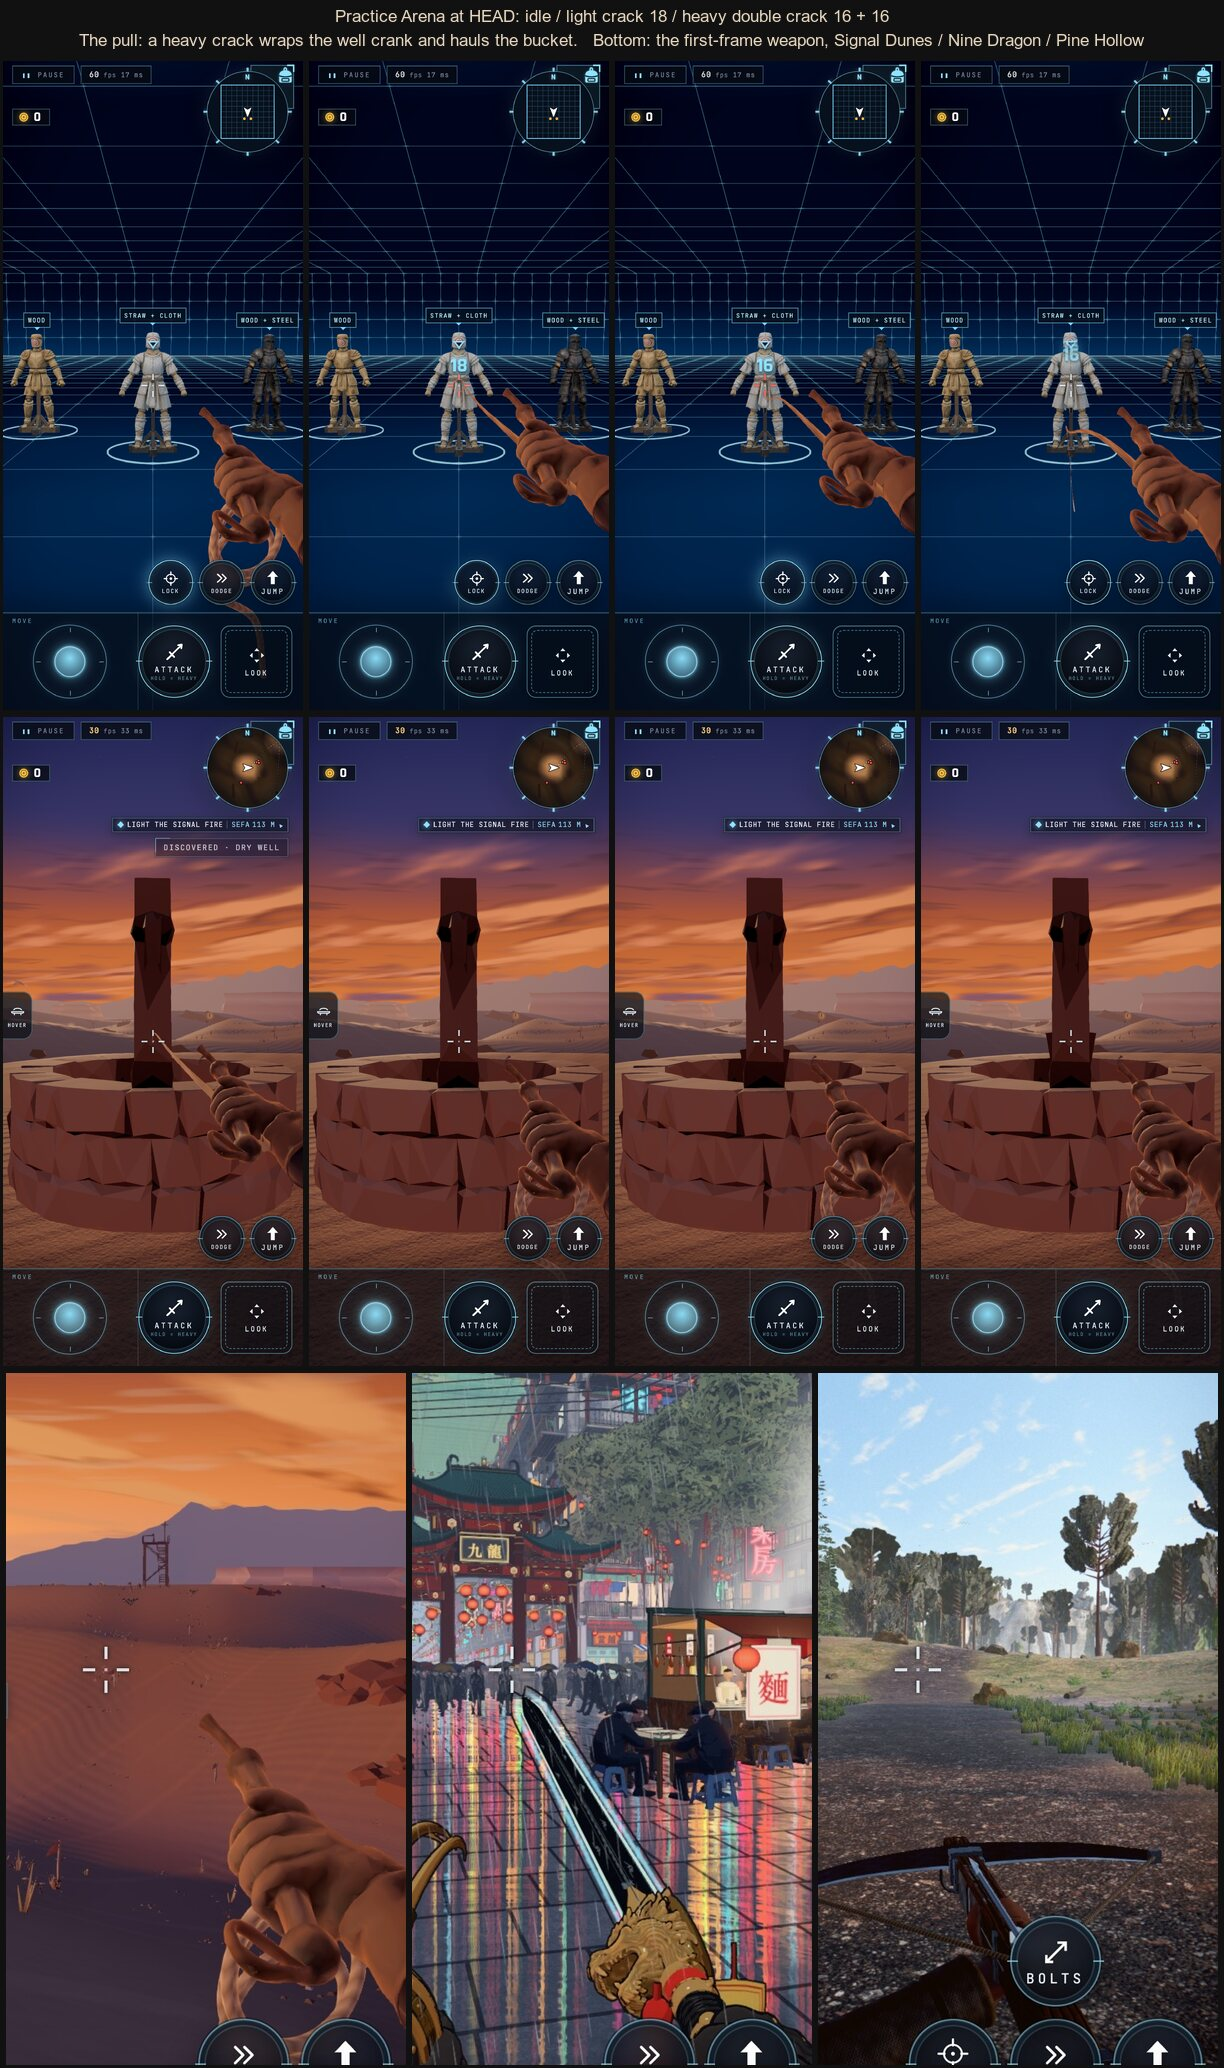
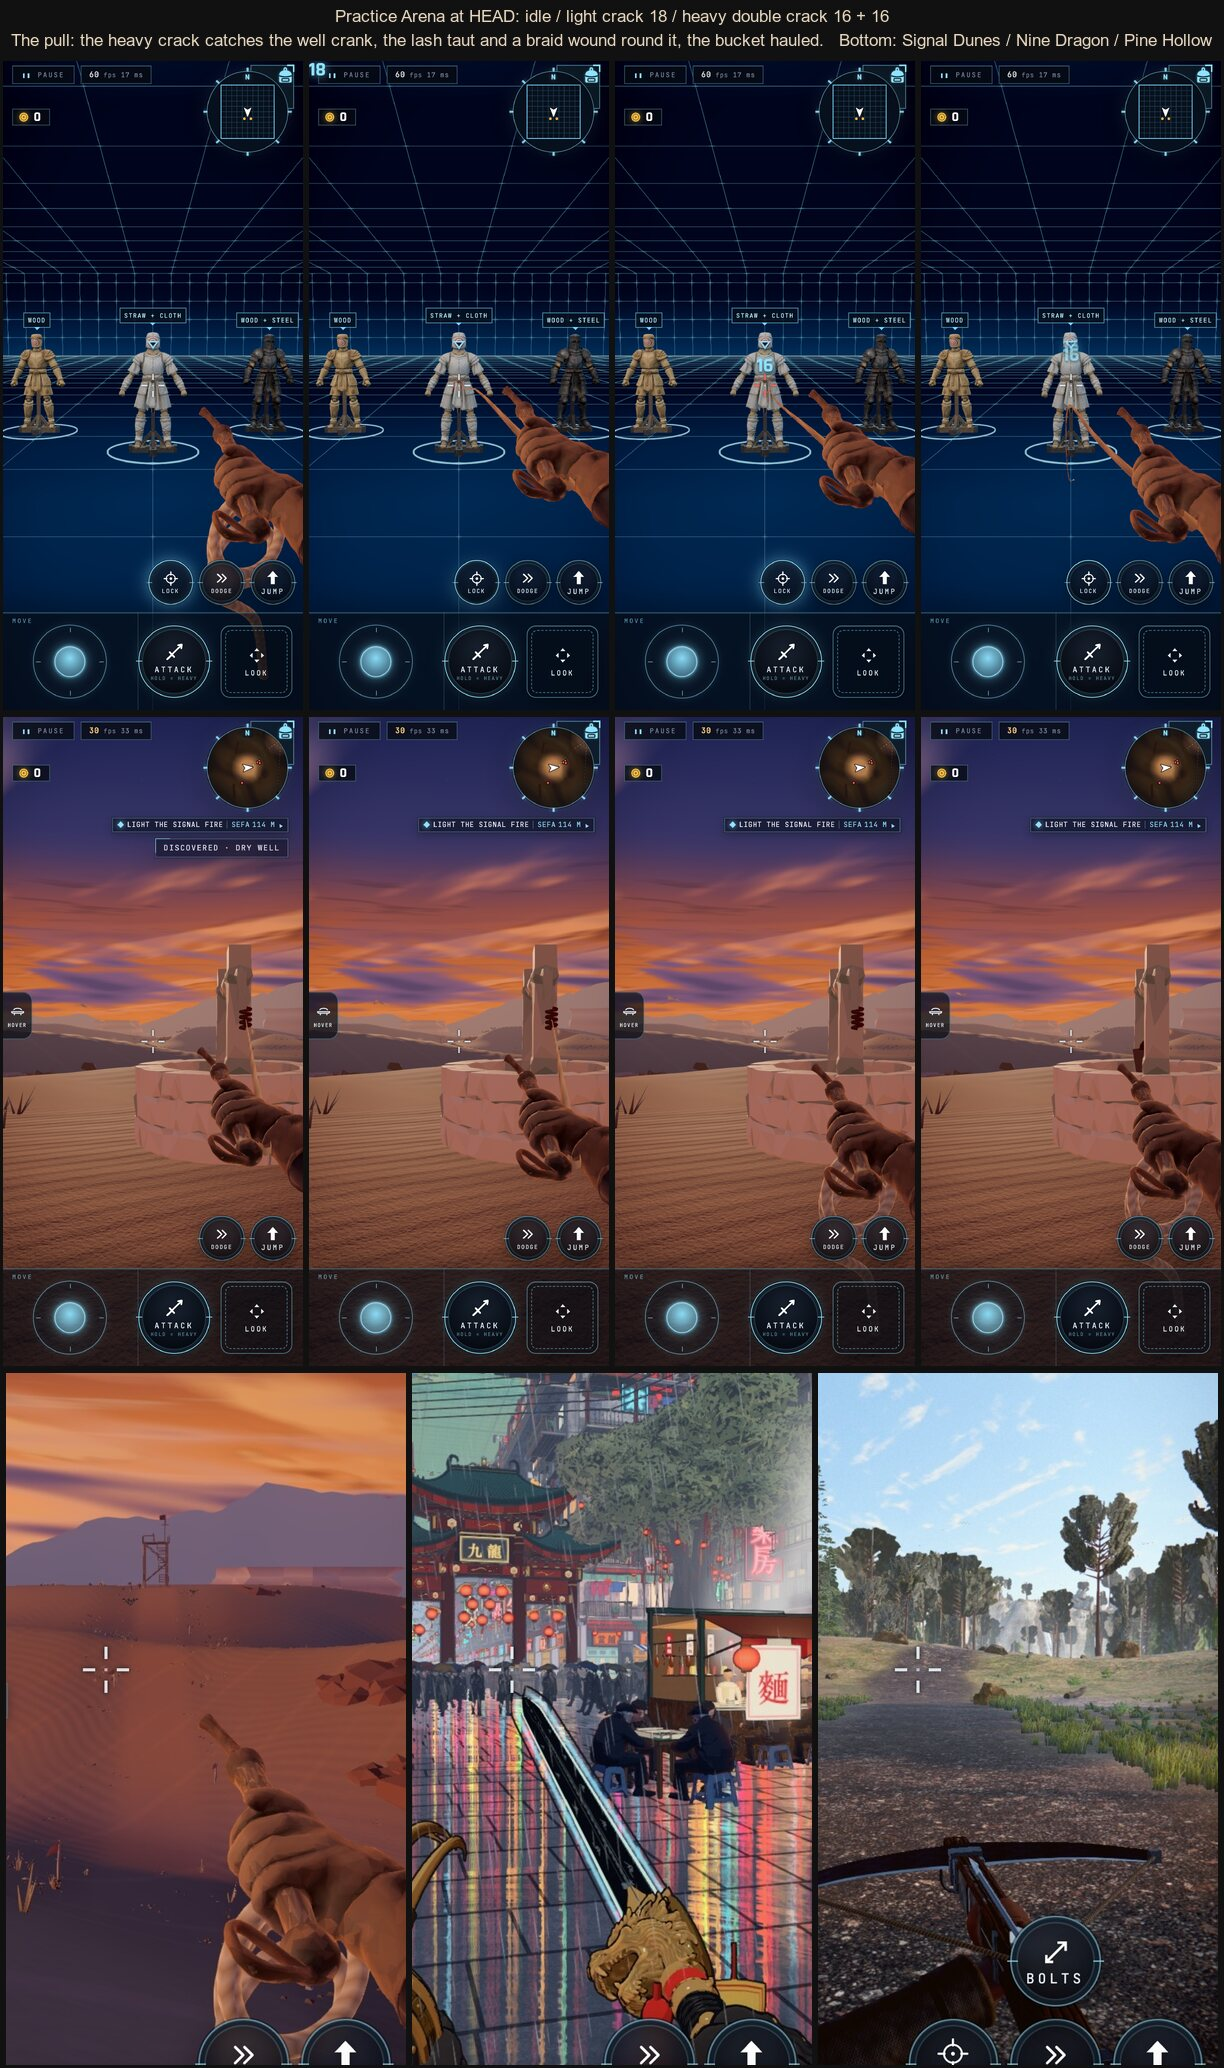
E374 Signal Dunes after the check pass, item 6: R1B-16 the pull is visible: a heavy crack that catches a lever holds the lash taut on it for 0.9 s with a braided coil wound round it in the world (Bullwhip.wrap); whip-arena.jpg re-shot at HEAD with the pull row (the lash to the crank, the wrap, the b
Claude-Session: https://claude.ai/code/session_01BQvkWzoif6UYZD5iMtrAJy

diff --git a/src/shards/sunscar-dunes/weapons/Bullwhip.ts b/src/shards/sunscar-dunes/weapons/Bullwhip.ts
@@ -1,7 +1,7 @@
 import { Weapon, blocks, type Actor, type App, type CombatTarget, type EquipContext, type Targets, type WeaponState } from '#engine';
-import { Vector2, Vector3 } from 'three';
+import { CatmullRomCurve3, Mesh, TubeGeometry, Vector2, Vector3 } from 'three';
 import { WHIP_ROW } from './rows';
-import { buildWhipModel, type WhipParts } from './whipModel';
+import { braidedMaterial, buildWhipModel, type WhipParts } from './whipModel';
 import type { Crackable } from '../world/build';
 
 /** What the lash lands on: the combat actor, and the body's yank and stagger when it has them. */
@@ -10,6 +10,9 @@ export interface WhipTarget { actor: Actor; impulse?: (velocity: Vector3) => voi
 const CHEST = 0.9, BODY = 0.7;
 
 /** The crack's numbers (metres, seconds, hit points); `pull` is the yank's speed (m/s) on a creature of `pullMaxHp` or less. */
+/** The wrap round a caught lever (metres, seconds): coil radius, height, turns, cord, how long it holds. */
+const WRAP = { r: 0.06, h: 0.24, turns: 4, cord: 0.018, hold: 0.9 } as const;
+
 export const CRACK = { reach: 7, heavyReach: 8, width: 0.9, light: 18, heavy: 16, cooldown: 0.45, heavyCooldown: 0.9,
   unroll: 0.12, second: 0.32, show: 0.42, charge: 0.6, stagger: 0.8, pull: 16, pullMaxHp: 40 } as const;
 
@@ -33,6 +36,11 @@ export class Bullwhip extends Weapon {
   private readonly from = new Vector3(); private readonly end = new Vector3();
   /** Levers and braziers the lash reacts to when it hits no creature (C3). */
   private crackables: readonly Crackable[] = [];
+  /**
+   * The pull's wrap (after the check pass: the board showed no lash round the crank): the world point the lash caught,
+   * how long it holds there, and a braided coil wound round it in the world while it holds.
+   */
+  private wrapAt: Vector3 | null = null; private wrapT = 0; private wrapCoil: Mesh | null = null;
   constructor(app: App, targets: Targets | null = null) {
     super(WHIP_ROW); this.app = app; this.targets = targets;
     this.contact = blocks.melee(app.combat); this.blocks.vm = this.vm; this.blocks.melee = this.contact;
@@ -48,7 +56,10 @@ export class Bullwhip extends Weapon {
     super.install(ctx);
     this.app.input.bind('attack', () => { this.tryFire(); }, ctx.scope, () => this.enabled);
     this.app.input.bind('heavy', () => { this.swing(true); }, ctx.scope, () => this.enabled);
-    ctx.scope.onDispose(() => { this.wasHeld = false; this.held = 0; this.crackT = -1; });
+    ctx.scope.onDispose(() => {
+      this.wasHeld = false; this.held = 0; this.crackT = -1;
+      if (this.wrapCoil) { this.wrapCoil.removeFromParent(); this.wrapCoil.geometry.dispose(); this.wrapCoil = null; }
+    });
   }
   override tryFire(): void { this.swing(false); }
   /** Starts a crack; the lash lands `CRACK.unroll` s later (and again at `CRACK.second` for the heavy). */
@@ -70,7 +81,20 @@ export class Bullwhip extends Weapon {
     if (hit !== null && port?.hittable === true) { this.strike(whipTarget(port), hit.point, dir, from, this.crackHeavy, second); this.onFire?.(); return; }
     const lane = this.inLane(from, dir, reach);
     if (lane !== null) { this.strike(whipTarget(lane.port), lane.point, dir, from, this.crackHeavy, second); this.onFire?.(); return; }
-    this.crackWorld(from, dir, reach, second);
+    const caught = this.crackWorld(from, dir, reach, second);
+    if (caught !== null && this.crackHeavy) this.wrap(caught.at);
+  }
+  /** Winds the lash round a caught lever: a short braided helix at the point, shown while the wrap holds. */
+  private wrap(at: Vector3): void {
+    const scene = this.app.equipmentHost?.game.scene; if (!scene) return;
+    if (this.wrapCoil === null) {
+      const pts: Vector3[] = [];
+      for (let i = 0; i <= 40; i++) { const a = (i / 40) * Math.PI * 2 * WRAP.turns; pts.push(new Vector3(Math.cos(a) * WRAP.r, (i / 40 - 0.5) * WRAP.h, Math.sin(a) * WRAP.r)); }
+      this.wrapCoil = new Mesh(new TubeGeometry(new CatmullRomCurve3(pts), 80, WRAP.cord, 5, false), braidedMaterial());
+      this.wrapCoil.frustumCulled = false; scene.add(this.wrapCoil);
+    }
+    this.wrapCoil.position.copy(at); this.wrapCoil.visible = true; // wound round the crank's upright
+    this.wrapAt = at.clone(); this.wrapT = WRAP.hold;
   }
   /** The nearest hittable combat target whose chest sits inside the lash's lane. */
   private inLane(from: Vector3, dir: Vector3, reach: number): { port: CombatTarget; point: Vector3 } | null {
@@ -128,6 +152,7 @@ export class Bullwhip extends Weapon {
   }
   private animate(dt: number): void {
     const { grip, coil, lash, tip } = this.parts;
+    if (this.wrapT > 0) { this.wrapT -= dt; if (this.wrapT <= 0 && this.wrapCoil) this.wrapCoil.visible = false; }
     if (this.crackT < 0) { lash.mesh.visible = false; coil.visible = true; grip.position.set(0, 0, 0); return; }
     this.crackT += dt;
     const t = this.crackT, double = this.crackHeavy;
@@ -144,7 +169,10 @@ export class Bullwhip extends Weapon {
     const reach = double ? CRACK.heavyReach : CRACK.reach;
     // The far end sits on the crosshair: the model's origin is offset from the eye, so aim back at the view axis.
     this.end.set(-this.model.position.x, -this.model.position.y - slack * 1.5, -reach + 0.42 + slack * 2);
-    lash.shape(this.from, this.end, Math.min(1, ext * (1 - slack * 0.35)), 0.25 + slack * 0.4, this.time);
+    // caught on a lever: the far end stays on it, taut (the model's frame: the world point through the viewmodel)
+    if (this.wrapT > 0 && this.wrapAt !== null) { this.model.updateWorldMatrix(true, false); this.end.copy(this.wrapAt); this.model.worldToLocal(this.end); }
+    const taut = this.wrapT > 0;
+    lash.shape(this.from, this.end, taut ? 1 : Math.min(1, ext * (1 - slack * 0.35)), taut ? 0.05 : 0.25 + slack * 0.4, this.time);
   }
 }
 

diff --git a/src/shards/sunscar-dunes/weapons/whipModel.ts b/src/shards/sunscar-dunes/weapons/whipModel.ts
@@ -13,6 +13,8 @@ const GLOW = 0x120804;
 const RADIAL = 6, SEGMENTS = 30;
 
 const leather = (color: number): MeshStandardMaterial => new MeshStandardMaterial({ color, roughness: 0.62, metalness: 0, emissive: GLOW });
+/** The lash's matte braid as a plain material (no vertex colours), for the pull's wrap coil. */
+export const braidedMaterial = (): MeshStandardMaterial => new MeshStandardMaterial({ color: 0x7a4a26, roughness: 0.85, metalness: 0, emissive: GLOW });
 const braided = (): MeshStandardMaterial => new MeshStandardMaterial({ vertexColors: true, roughness: 0.55, metalness: 0, emissive: GLOW });
 
 /** Paints a tube's rings with two strands laid in a spiral (the plait), so the braid reads without a texture. */
